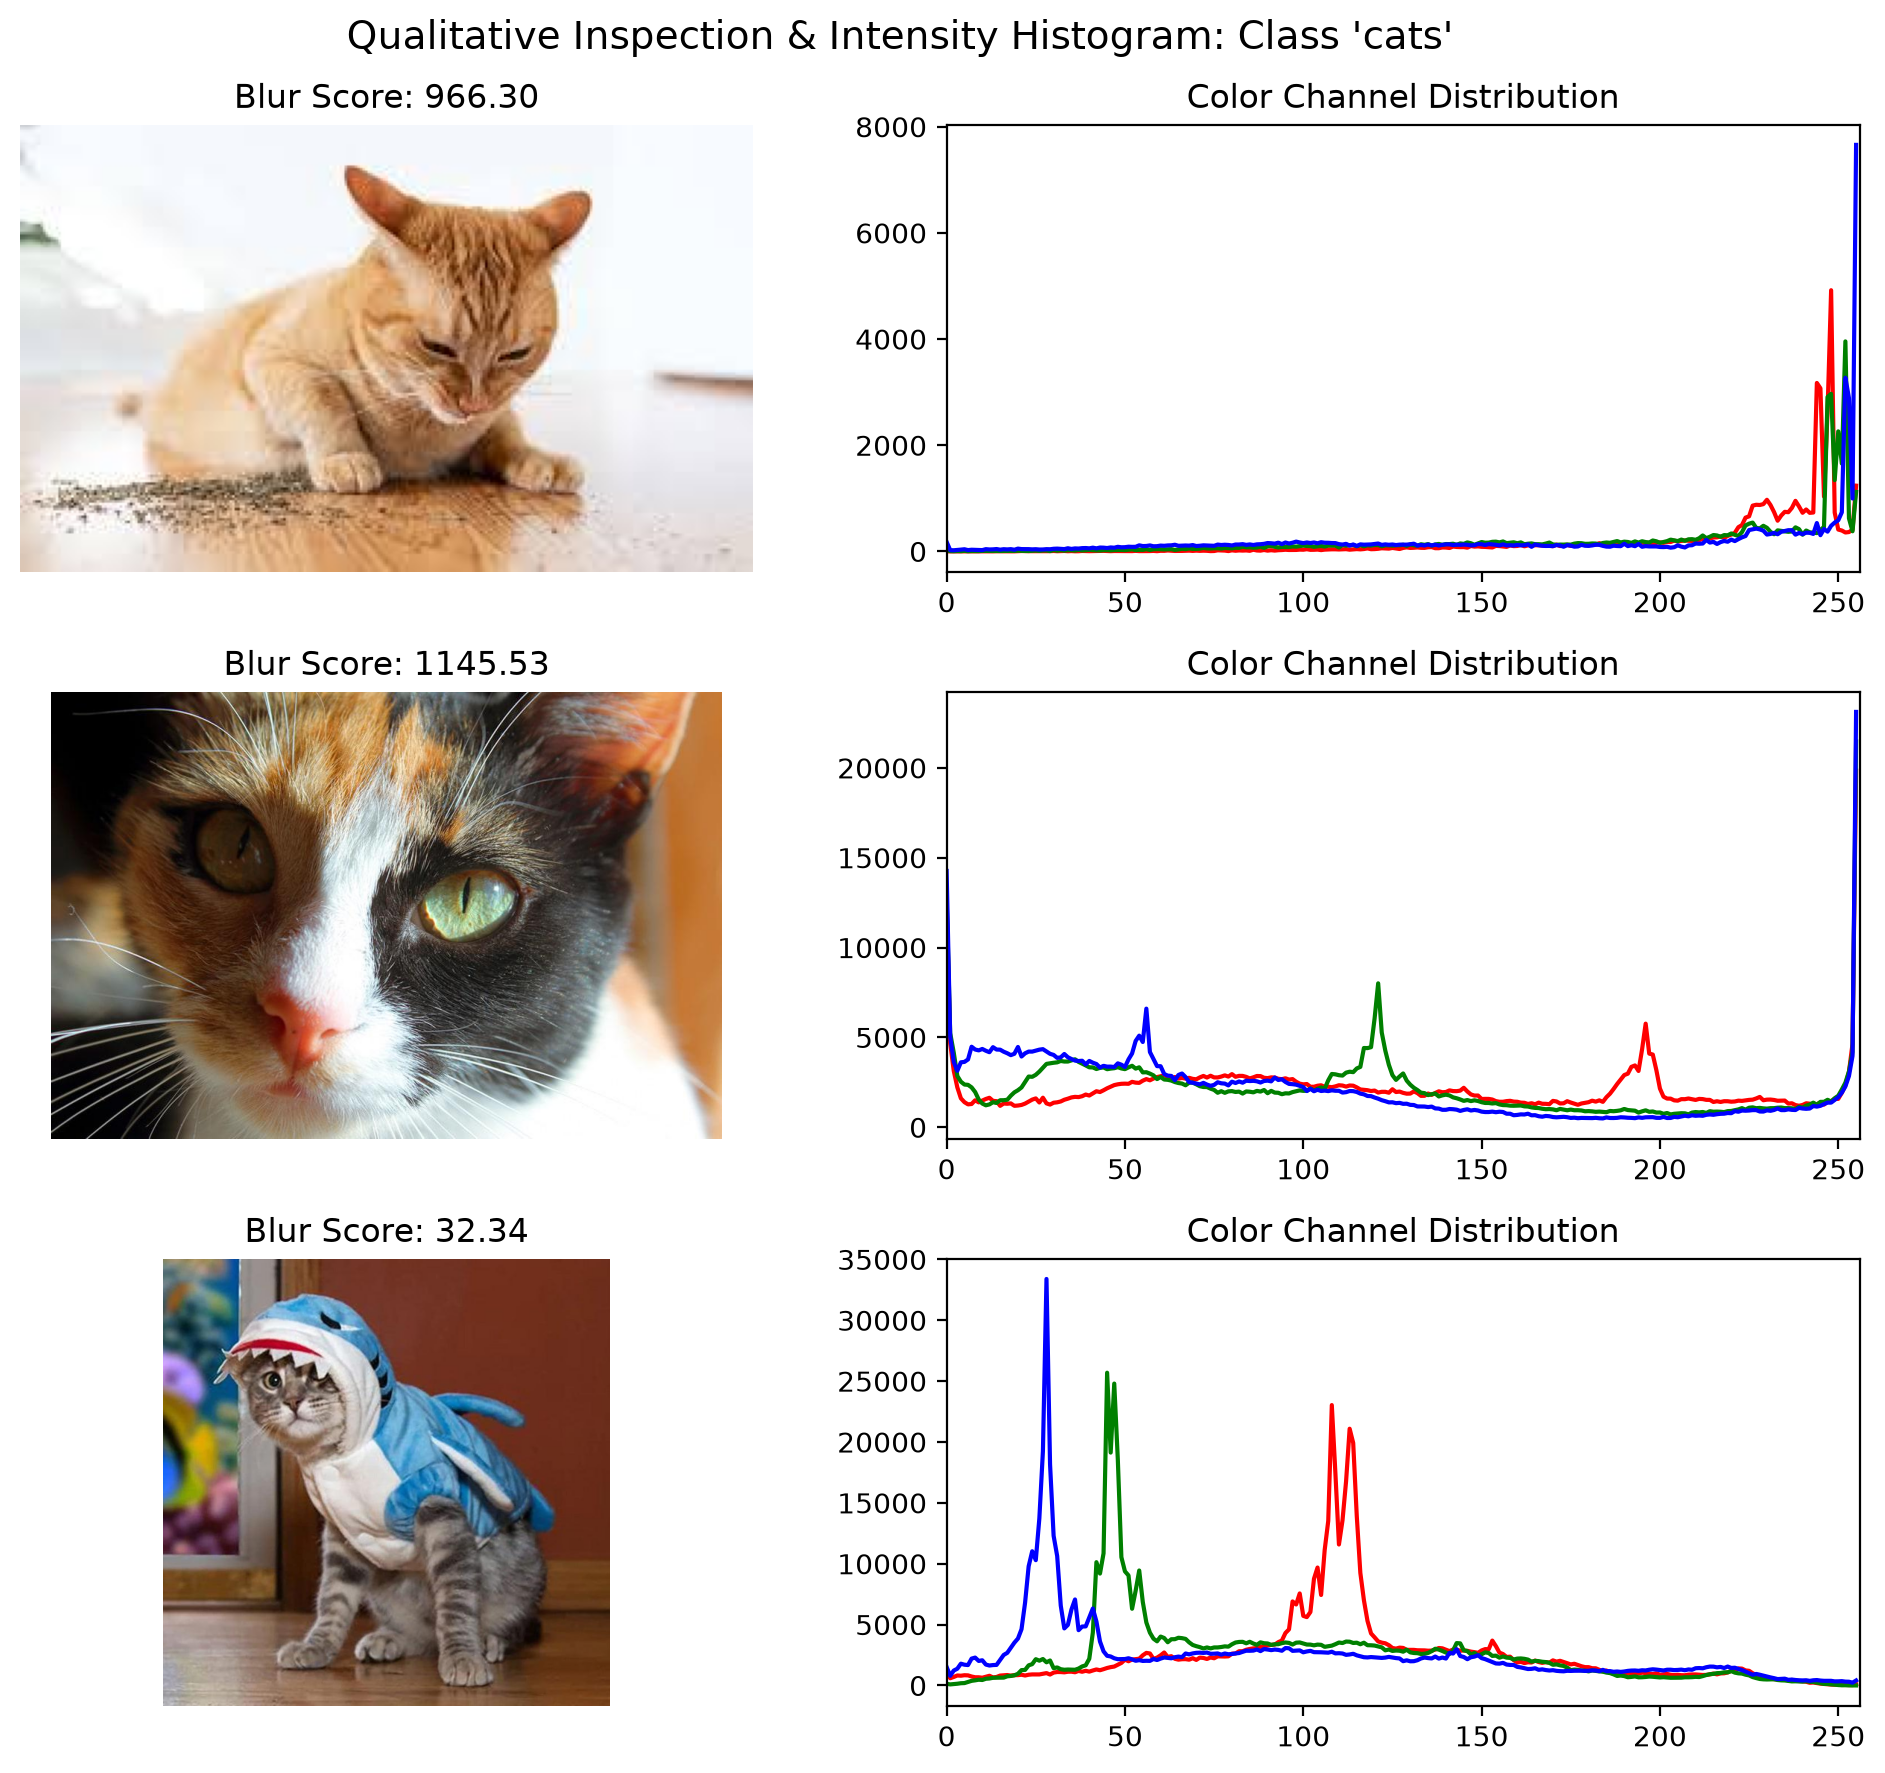
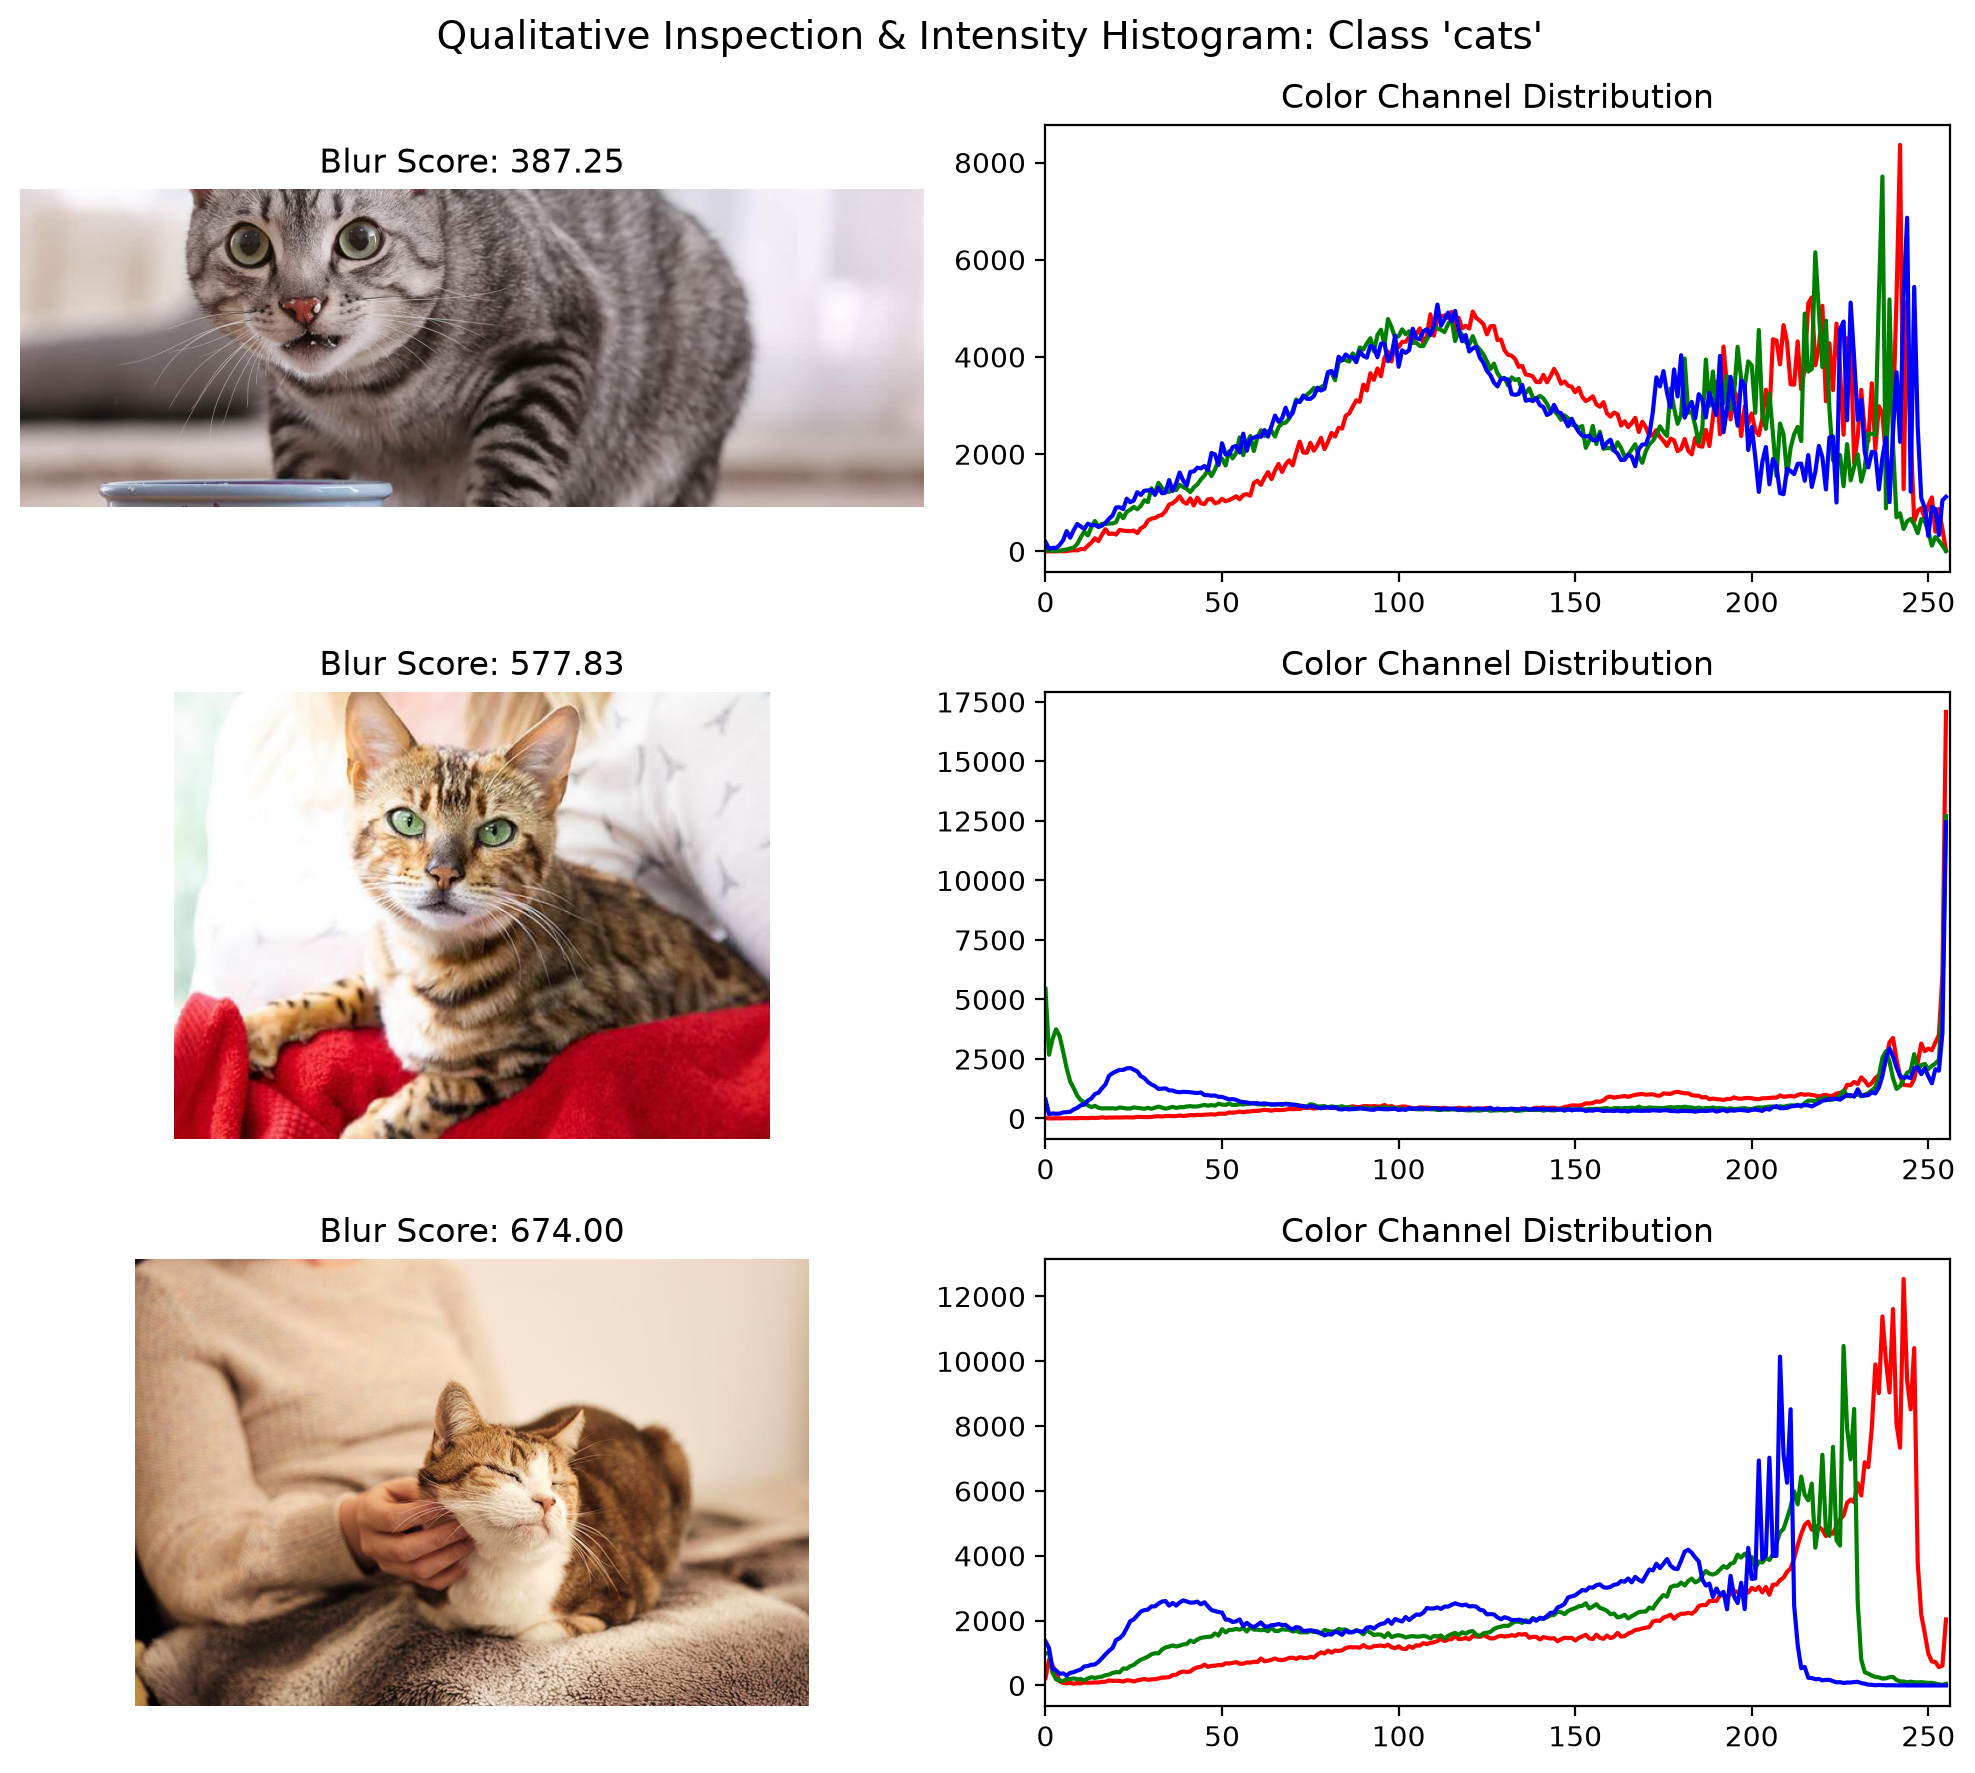
สร้างลิสต์ของ Path ที่เป็นไปได้ทั้งหมด

diff --git a/eda.py b/eda.py
@@ -9,10 +9,23 @@ from glob import glob
 from PIL import Image
 
 # ==========================================
-# 1. การจัดการ Path และโฟลเดอร์ผลลัพธ์
+# 1. การจัดการ Path และโฟลเดอร์ผลลัพธ์ (แบบยืดหยุ่น)
 # ==========================================
 current_path = os.getcwd()
-DATASET_DIR = os.path.join(current_path, "Dataset-cat-and-dog-image", "train")
+
+# สร้างลิสต์ของ Path ที่เป็นไปได้ทั้งหมด
+possible_paths = [
+    os.path.join(current_path, "train"), # กรณี train อยู่หน้าสุด
+    os.path.join(current_path, "Dataset-cat-and-dog-image", "train"), # กรณีซ้อนในโฟลเดอร์เดิม
+    os.path.join(current_path, "data", "train") # กรณีจัดระเบียบใหม่ไว้ใน data
+]
+
+DATASET_DIR = None
+for p in possible_paths:
+    if os.path.exists(p):
+        DATASET_DIR = p
+        break
+
 REPORTS_DIR = os.path.join(current_path, "reports")
 FIGURES_DIR = os.path.join(REPORTS_DIR, "figures")
 SUMMARY_FILE = os.path.join(REPORTS_DIR, "eda_summary.md")
@@ -20,7 +33,10 @@ SUMMARY_FILE = os.path.join(REPORTS_DIR, "eda_summary.md")
 os.makedirs(FIGURES_DIR, exist_ok=True)
 
 print(f"Current Working Directory: {current_path}")
-print(f"Target Dataset Path: {DATASET_DIR}")
+if DATASET_DIR:
+    print(f"✅ Target Dataset Path Found: {DATASET_DIR}")
+else:
+    print(f"❌ Error: ไม่พบโฟลเดอร์ train ในโครงสร้างปัจจุบัน กรุณานำโฟลเดอร์รูปภาพมาวาง")
 print(f"Reports will be saved to: {REPORTS_DIR}\n")
 
 # ==========================================
